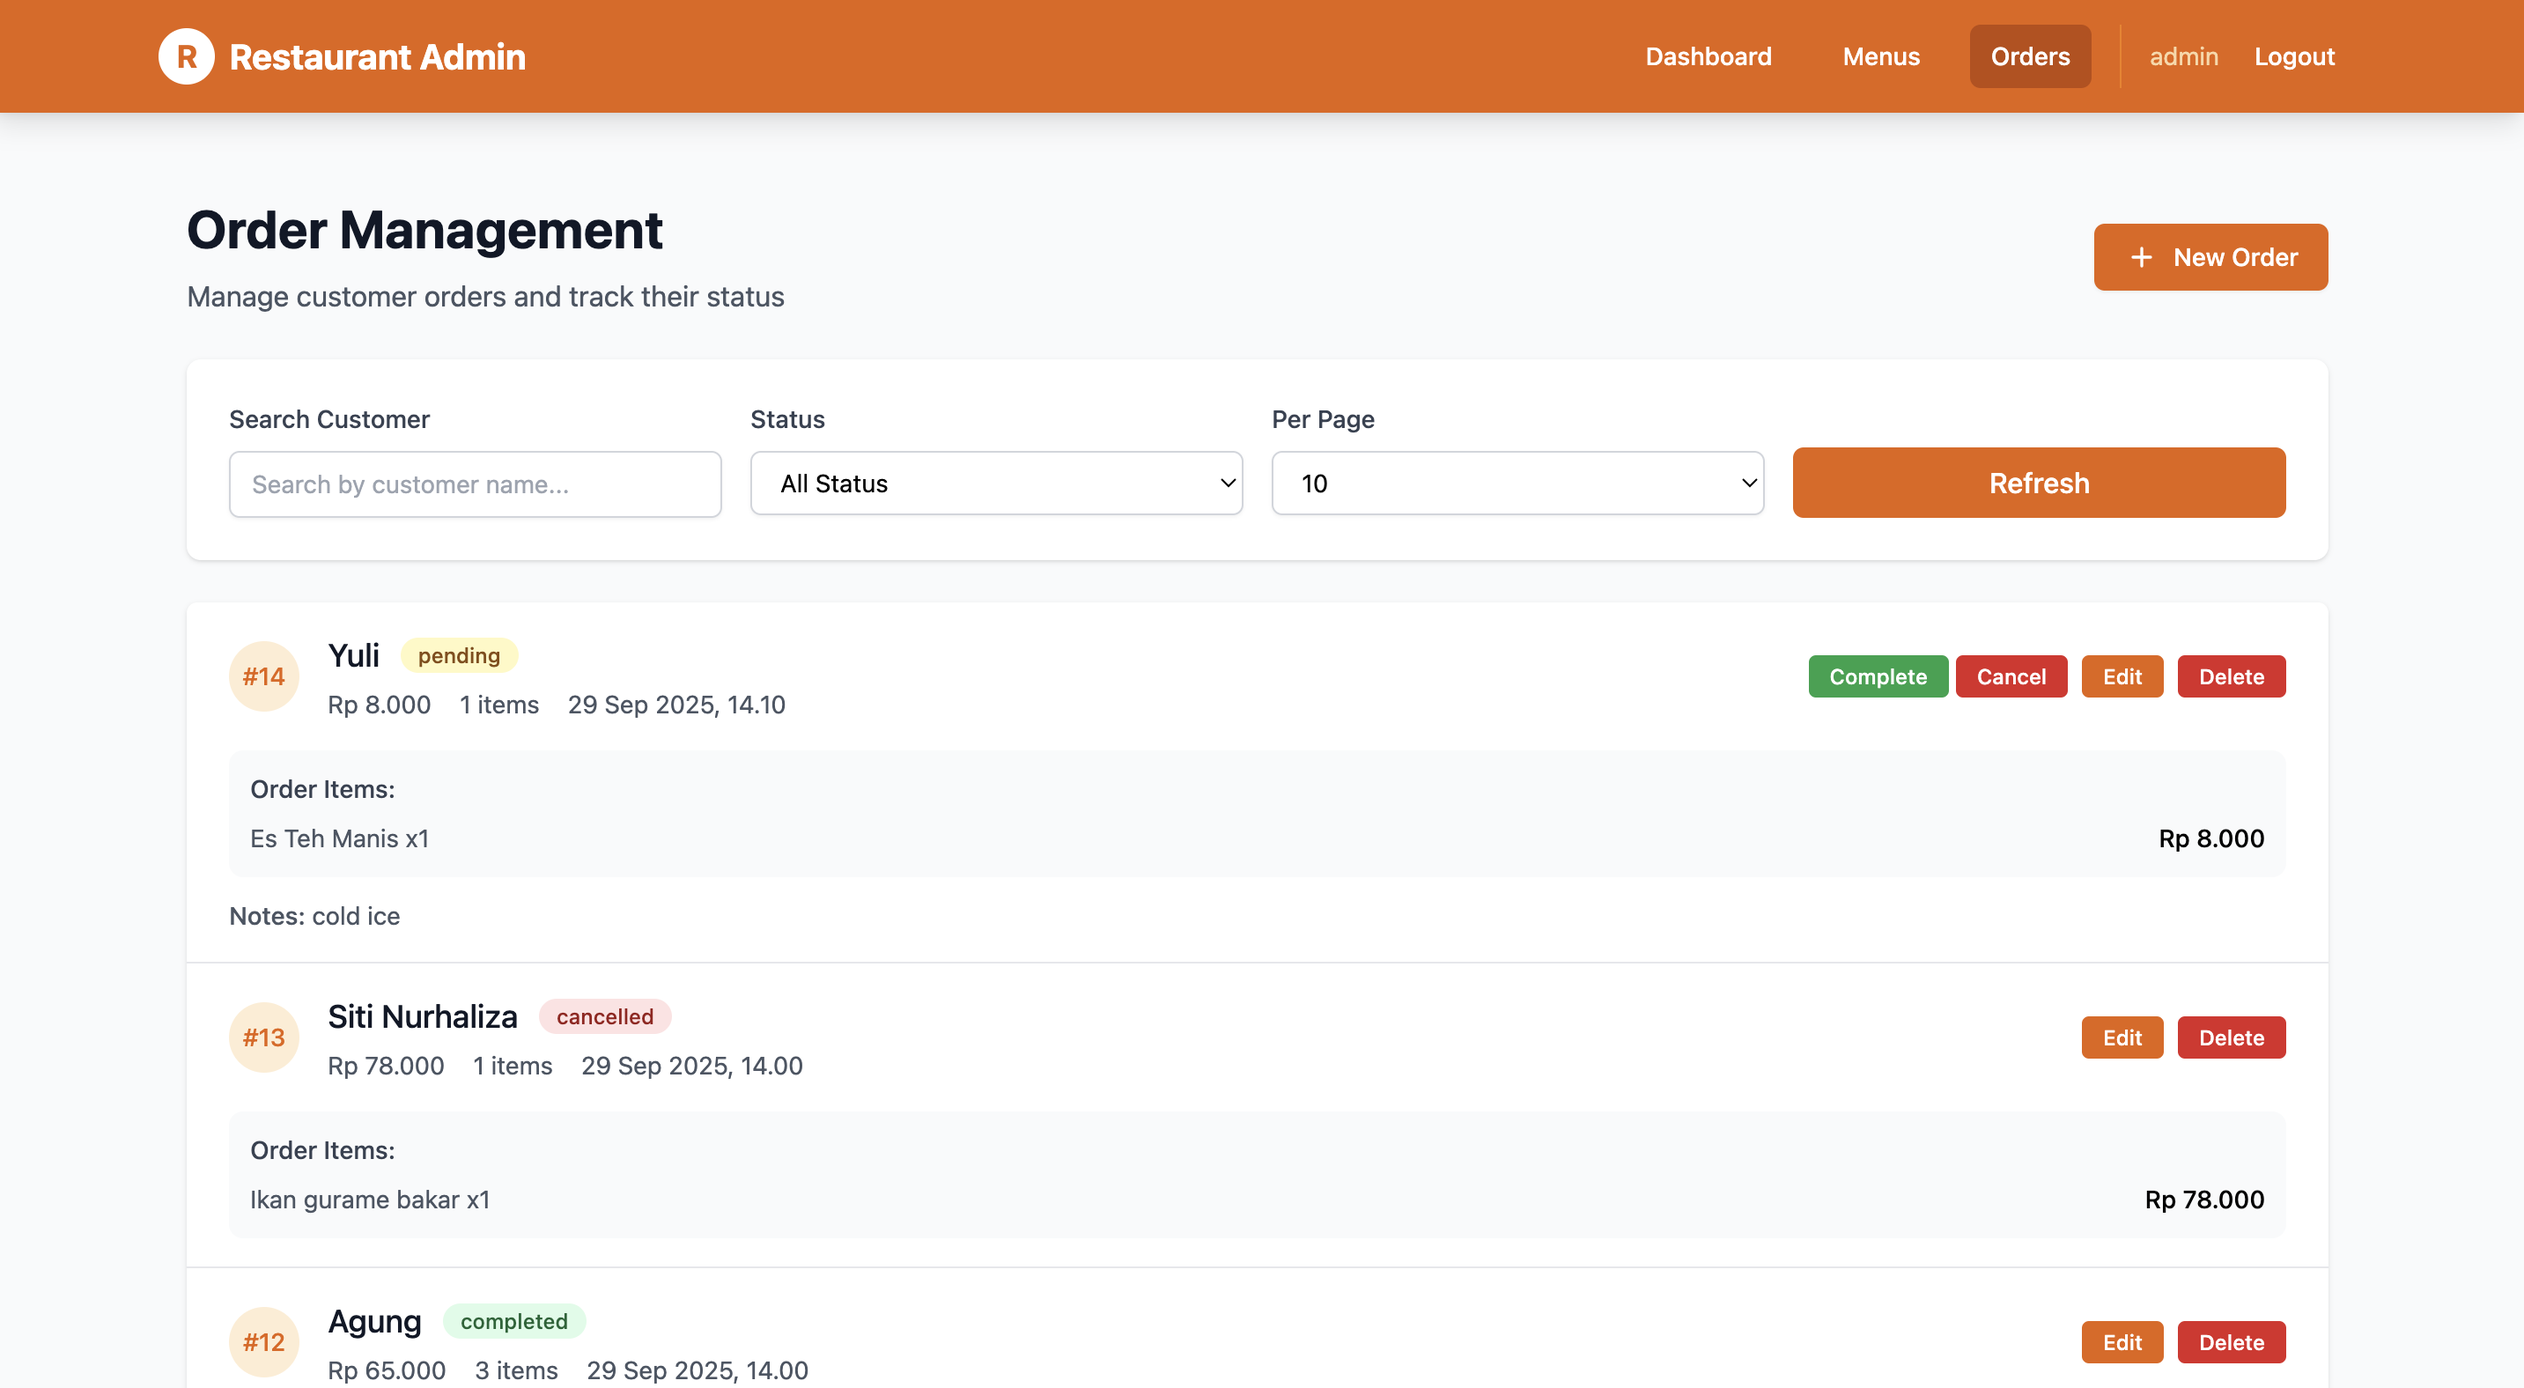
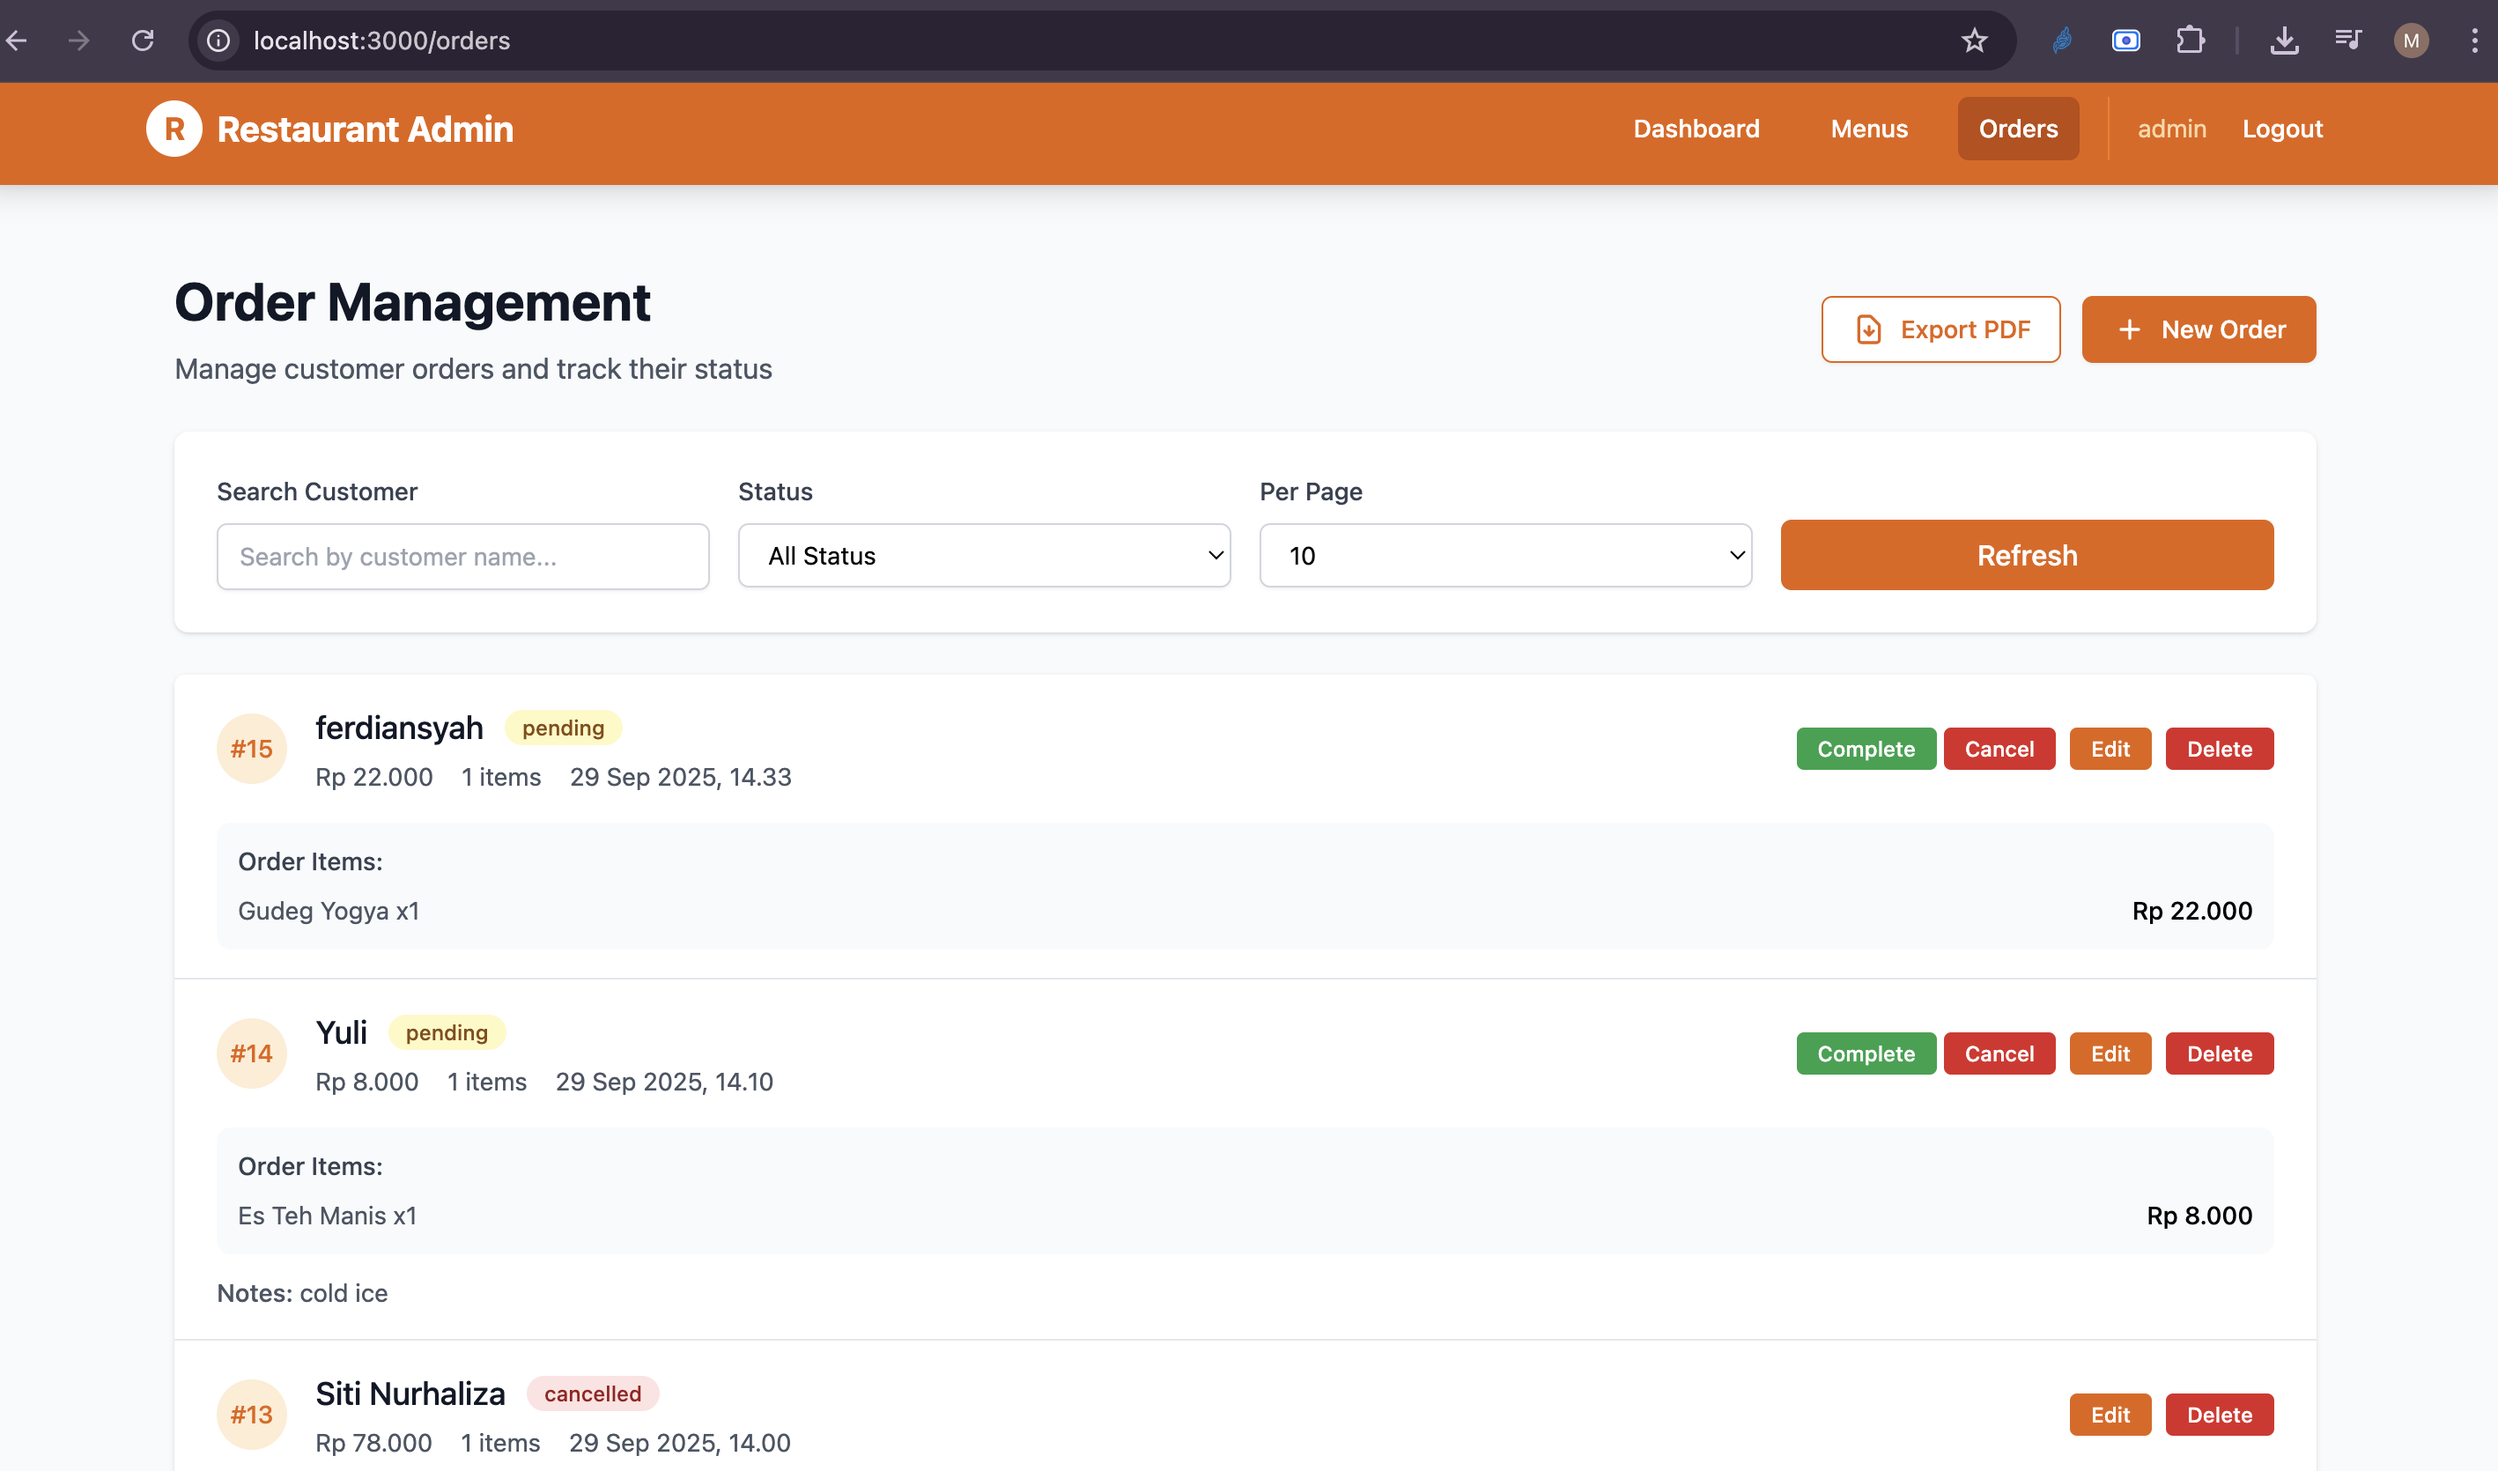
update readme

diff --git a/backend/README.md b/backend/README.md
@@ -10,6 +10,7 @@ This is the Flask-based backend API for the Restaurant Management System.
 - Image upload functionality
 - CORS support for frontend integration
 - Comprehensive error handling and validation
+- PDF export functionality with ReportLab for order reports and receipts
 
 ## API Endpoints
 
@@ -35,6 +36,8 @@ This is the Flask-based backend API for the Restaurant Management System.
 - `PUT /api/orders/{id}` - Update order (requires auth)
 - `DELETE /api/orders/{id}` - Delete order (requires auth)
 - `PUT /api/orders/{id}/status` - Update order status (requires auth)
+- `GET /api/orders/export-pdf` - Export all orders to PDF (supports status filter) (requires auth)
+- `GET /api/orders/{id}/export-pdf` - Export single order receipt to PDF (requires auth)
 
 ## Setup
 
@@ -139,3 +142,24 @@ HTTP status codes:
 - 401: Unauthorized
 - 404: Not Found
 - 500: Internal Server Error
+
+## Dependencies
+
+### Core Dependencies
+- **Flask 2.3.3**: Web framework
+- **Flask-SQLAlchemy 3.0.5**: Database ORM
+- **Flask-Login 0.6.3**: Authentication management
+- **Flask-CORS 4.0.0**: Cross-origin resource sharing
+- **PyMySQL 1.1.0**: MySQL database connector
+- **ReportLab 4.0.4**: PDF generation library
+- **Werkzeug 2.3.7**: WSGI utilities and file upload handling
+- **python-dotenv 1.0.0**: Environment variable management
+- **cryptography 41.0.4**: Password hashing and security
+
+### PDF Export Features
+- Professional order reports with company branding
+- Summary statistics (total orders, revenue, status breakdown)
+- Detailed order tables with customer information and items
+- Individual order receipts for customer transactions
+- Automatic file naming with timestamps
+- Support for status filtering in bulk exports

diff --git a/README.md b/README.md
@@ -21,6 +21,8 @@ A full-stack web application for restaurant management built with Flask (backend
 - Delete orders
 - Order notes and special instructions
 - Real-time order tracking
+- **PDF Export**: Export all orders or filtered orders to professionally formatted PDF reports
+- **Individual Order Receipts**: Generate PDF receipts for single orders
 
 ### Authentication & Dashboard
 - Simple admin login system with session management
@@ -45,6 +47,7 @@ A full-stack web application for restaurant management built with Flask (backend
 - **CORS**: Flask-CORS
 - **File Upload**: Werkzeug
 - **Migration**: Flask-Migrate
+- **PDF Generation**: ReportLab for PDF reports and receipts
 
 ### Frontend
 - **Framework**: Vue.js 3
@@ -132,6 +135,10 @@ restaurant/
 
 ![Order Success Notification](images/notification_order.png)
 *Confirmation notifications for order operations with automatic redirect after successful creation.*
+
+### PDF Export Feature
+![PDF Export Result](images/pdf_result.png)
+*Professional PDF reports with order summary statistics and detailed order listings. Features include branded headers, formatted tables, and automatic file naming with timestamps. Supports filtering by status for targeted reports.*
 
 ## Quick Start
 
@@ -266,6 +273,8 @@ restaurant/
 | PUT | `/api/orders/{id}` | Update order | Yes |
 | DELETE | `/api/orders/{id}` | Delete order | Yes |
 | PUT | `/api/orders/{id}/status` | Update order status | Yes |
+| GET | `/api/orders/export-pdf` | Export all orders to PDF (supports status filter) | Yes |
+| GET | `/api/orders/{id}/export-pdf` | Export single order receipt to PDF | Yes |
 
 #### Order Object:
 ```json

diff --git a/frontend/README.md b/frontend/README.md
@@ -9,6 +9,7 @@ This is the Vue.js frontend for the Restaurant Management System.
 - Admin authentication and session management
 - Menu management with image upload
 - Order management with real-time status updates
+- **PDF Export**: Professional order reports and individual receipts
 - Form validation and error handling
 - Toast notifications and confirmation dialogs
 
